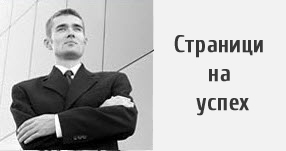
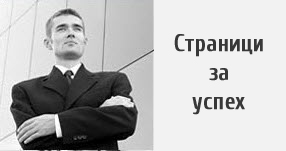
- stranici za uspeh

diff --git a/application/views/admin/elements/menu.php b/application/views/admin/elements/menu.php
@@ -9,7 +9,7 @@
         <li>
             <a href="#">Почетна</a>
             <ul>
-                <li><a href="<?php echo base_url(); ?>">&laquo; tsl.mk</a></li>
+                <li><a href="<?php echo base_url(); ?>">&laquo; tsgroup.mk</a></li>
                 <li><a href="<?php echo base_url(); ?>admin/home">Админ почетна</a></li>
                 <li><a href="<?php echo base_url(); ?>admin/footer/view_footer">Footer</a></li>
                 <li><a href="<?php echo base_url(); ?>login/logout">Одјава</a></li>

diff --git a/application/views/pages_of_success.php b/application/views/pages_of_success.php
@@ -3,7 +3,7 @@
 
     <div class="left">
      
-            <h3>Страници на успех</h3>
+            <h3>Страници за успех</h3>
             <?php if($finished_newsletters): ?>
             <table class="table">
                 <thead>
